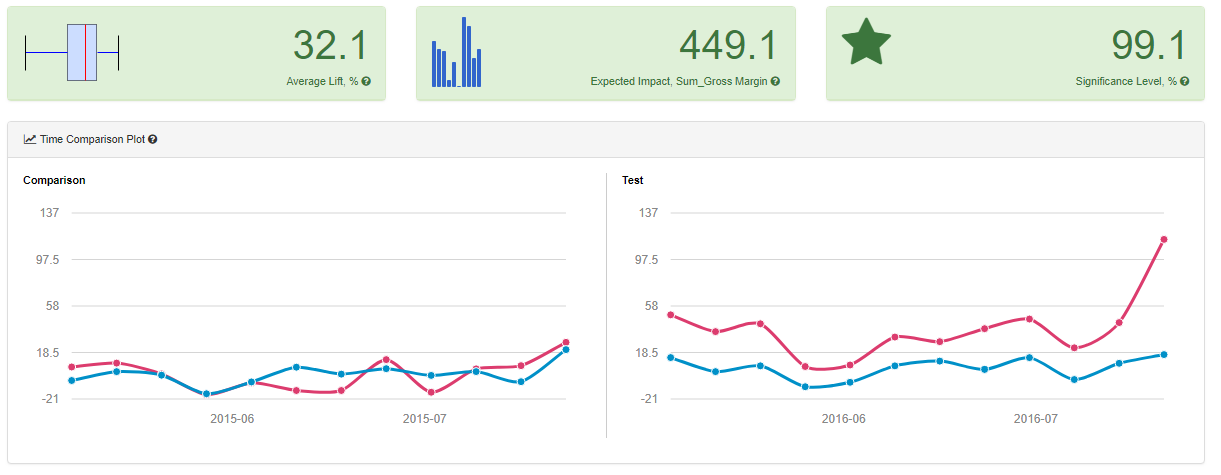
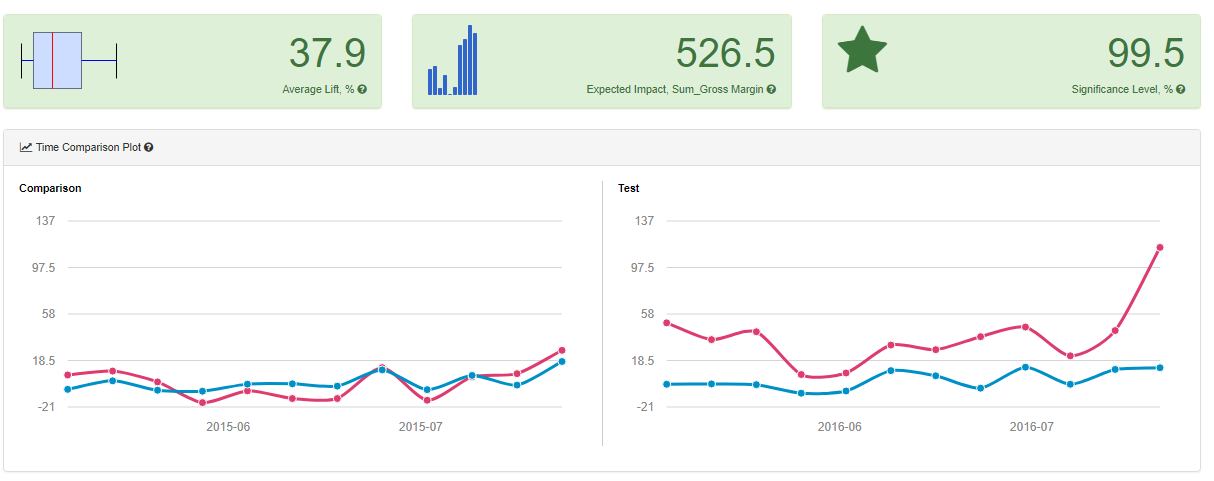
cleanup space and modify project 4

diff --git a/P4-ABTesting/RoundRoasterTransaction/README.md b/P4-ABTesting/RoundRoasterTransaction/README.md
@@ -72,16 +72,16 @@ Treatment Store	Control Store 1	Control Store 2
 
 | Treatment Store | Control Store 1 | Control Store 2 |
 |-----------------|-----------------|-----------------|
-| 1664            |   1857              |   7484          |
-| 1675            | 2114            | 8562            |
-| 1696            | 1964            | 7584            |
-| 1700            | 1508            | 7384            |
-| 1712            | 7284            | 8212            |
-| 2288            | 9081            | 12069            |
-| 2293            | 11568|12219                     |
-| 2301            | 10018|10468                  |
-| 2322            |   2409|3102    |
-| 2341            |  2333|11368      | 
+| 1664            |   7162              |   74881124          |
+| 1675            | 1580            | 1807            |
+| 1696            | 1964            | 1863            |
+| 1700            |     2014        |  1630           |
+| 1712            |   8162          |    1712         |
+| 2288            |    9081         |   2568          |
+| 2293            |       12219|9524               |
+| 2301            | 3102|9238                 |
+| 2322            | 2409|3235  |
+| 2341            | 12536|2383  | 
 		
 
 Here is the detailed workflow of all the processes listed above:
@@ -94,17 +94,17 @@ Here is the detailed workflow of all the processes listed above:
 - Yes, the company should roll out the updated menu to all stores as the lift in profit gross is greater than the 18% benchmark. 
   
 **2.	What is the lift from the new menu for West and Central regions (include statistical significance)?**
-- The lift from the new menu for West is 32.1% with statistical significance. 
+- The lift from the new menu for West is 37.9% with statistical significance. 
   ![](Ref/lift-west.png)
 
 
-- The lift from the new menu for Central is 36.3% with statistical significance. 
+- The lift from the new menu for Central is 43.5% with statistical significance. 
   ![](Ref/lift-central.png)
 
 
 
 **3.	What is the lift from the new menu overall?** 
-  - The lift from the new menu for Overvall is 34.2% with statistical significance. 
+  - The lift from the new menu for Overvall is 40.7% with statistical significance. 
    ![](Ref/lift-overall.png)
 
 ![](Ref/testanalysisworkflow.PNG)

diff --git a/P5-Time-Series-Forecasting/Project-Forecasting-Sales/README.md b/P5-Time-Series-Forecasting/Project-Forecasting-Sales/README.md
@@ -8,7 +8,7 @@ Answer the following questions to help you plan out your analysis:
 - Initial findings of the time series showed a complete series exhibiting the 4 key characteristics of time series data. The series is **over a continuous time interval**, of **sequential measurements** across that interval, using equal spacing between every two consecutive measurements and each time unit within the time interval has at most one data point.
 The data collected is composed of monthly sales data dating back to 2008 and going until September 2013. 
 
-2.	Which records should be used as the holdout sample?
+2.	Which records should be used as the holdout sample?  
 - Last 4 records 2013-06 and 2013-09. 
   
 ## Step 2: Determine Trend, Seasonal, and Error components 
